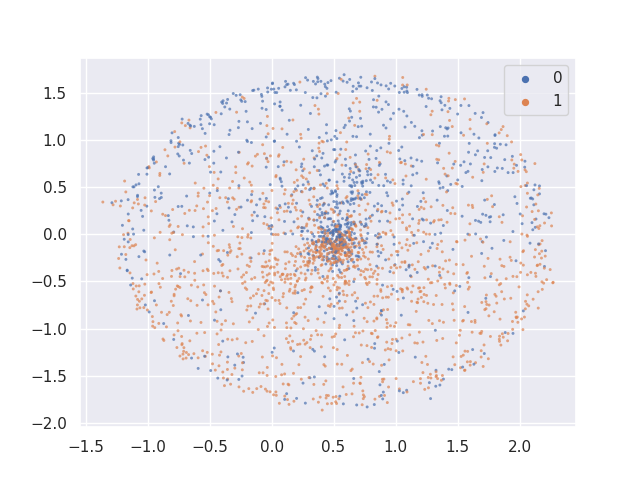
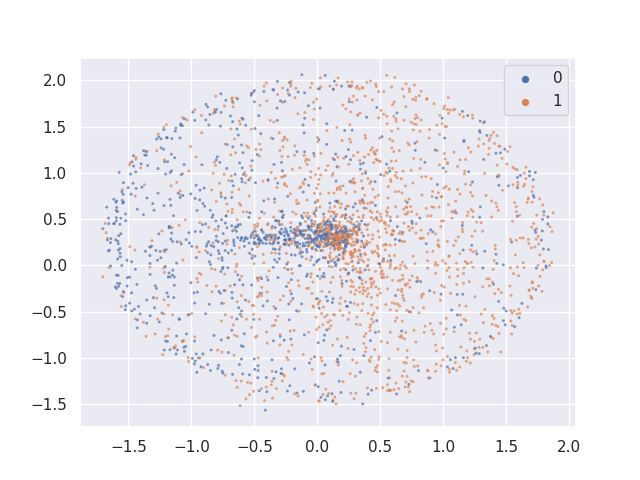
plots updated.

diff --git a/visualize.py b/visualize.py
@@ -317,9 +317,9 @@ if __name__ == "__main__":
     print(len(cues))
 
     #umap_plot(vectors, estimates, cues=cues, save_prefix='test')
-    for perplex in [5, 10, 20]:#50, 100, 200, 500, 1000, 2000]:
-        for lr in [50, 100, 500, 1000]:
-            tsne(vectors, estimates, cues=cues, perplex=perplex, lr=lr, save_prefix='test-tsne-')
+    for perplex in [5, 10, 20, 50, 100, 200, 500, 1000]:
+        #for lr in [50, 100, 500, 1000]:
+        tsne(vectors, estimates, cues=cues, perplex=perplex, save_prefix='test-tsne-')
     
     #umap_plot(vectors, estimates, neighbors=15, metric='euclidean', cues=cues, save_prefix='umap/fasttext-en-', save_points='scatter-umap.pkl')
     #kmap(vectors, cues, save_prefix='fasttext-en-')
